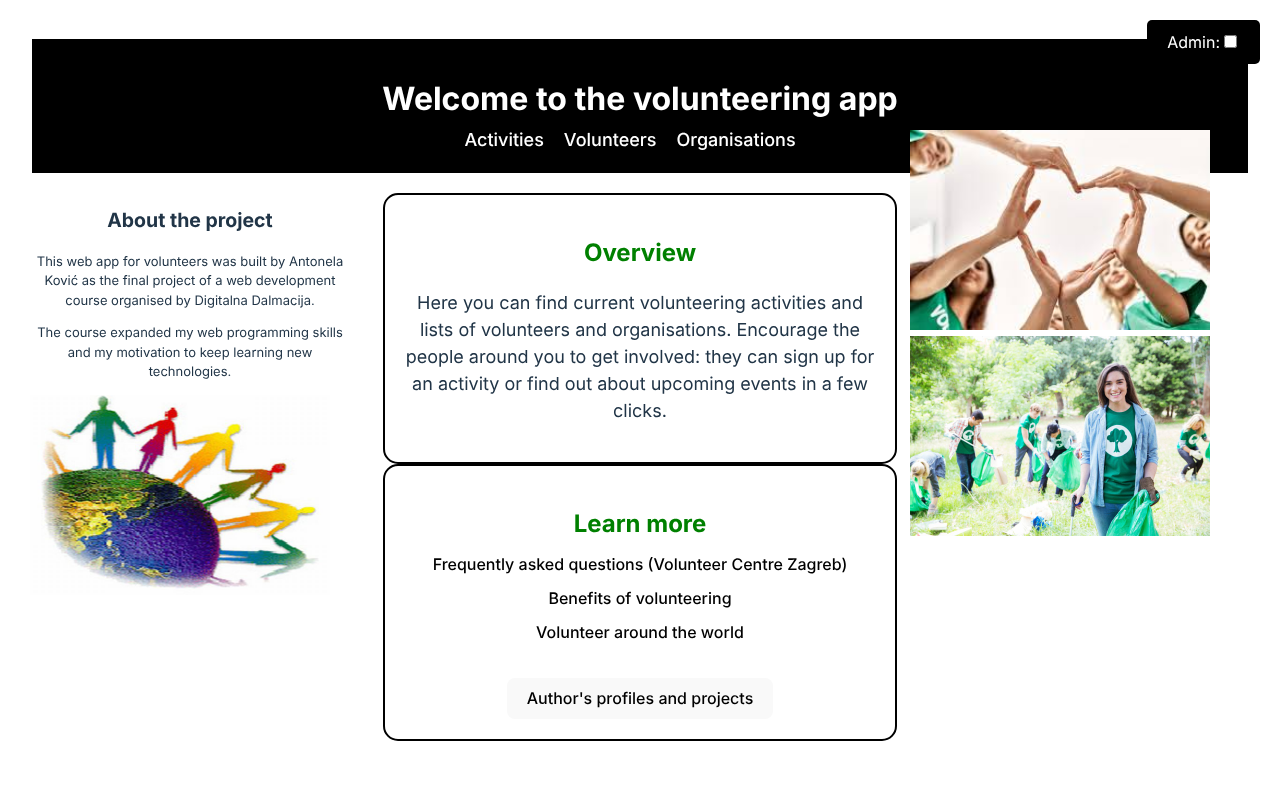
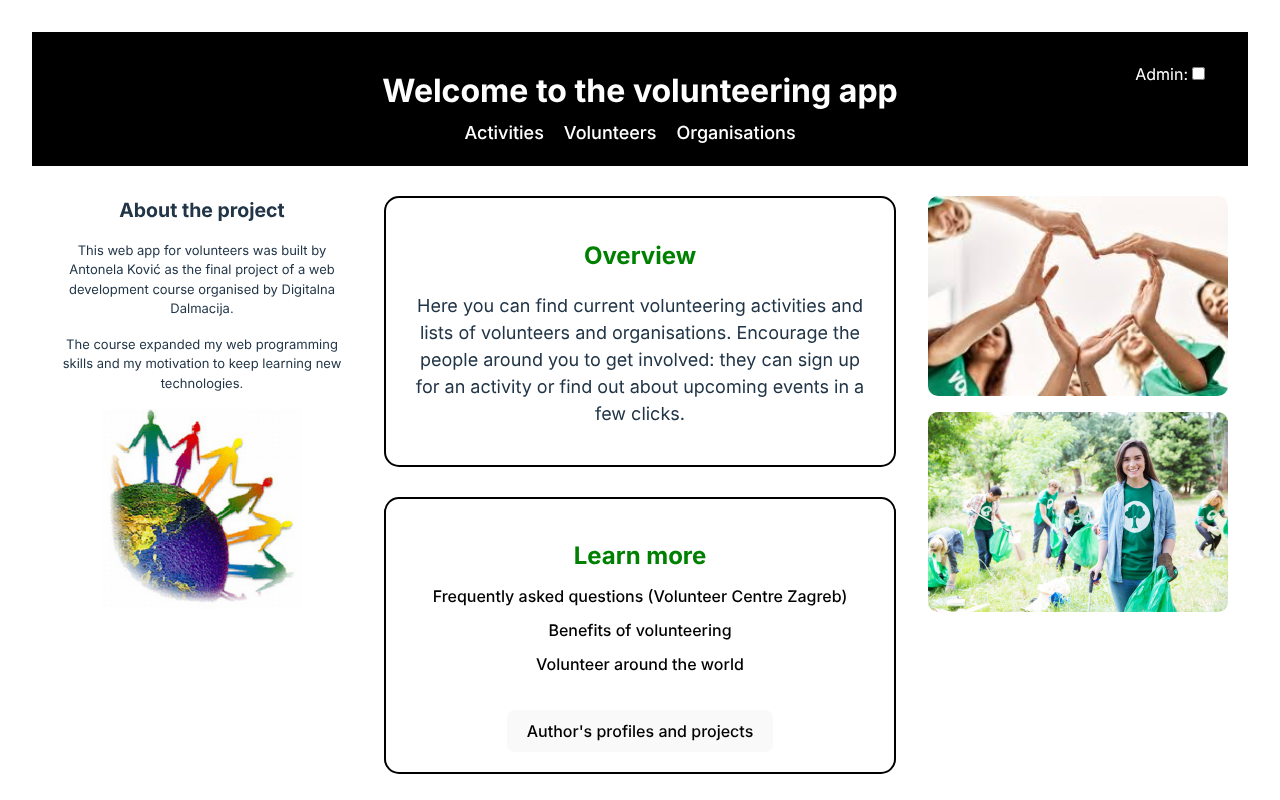
Fix the home page layout: grid columns instead of fixed positioning
The side columns were positioned with position: fixed, so the photos
overlapped the header and the middle content depending on the window
size. The page now uses a three-column grid that stacks on narrow
screens; the admin toggle moves below the navigation there.

diff --git a/src/Home.jsx b/src/Home.jsx
@@ -23,50 +23,52 @@ const Home = () => {
         </nav>
       </header>
 
-      {/* Right column */}
-      <div className="component-container2">
-        <img src="/images/volunteers-1.png" alt="Volunteers at work" width="300" height="200" />
-        <img src="/images/volunteers-2.jpg" alt="Volunteers" width="300" height="200" style={{ display: 'block' }} />
-      </div>
-
-      {/* Left column */}
-      <div className="component-container">
-        <h2>About the project</h2>
-        <p>
-          This web app for volunteers was built by Antonela Ković as the final project of a web
-          development course organised by Digitalna Dalmacija.
-        </p>
-        <p>
-          The course expanded my web programming skills and my motivation to keep learning new technologies.
-        </p>
-        <img src="/images/volunteers-3.jpg" alt="Volunteering" width="300" height="200" style={{ display: 'block' }} />
-      </div>
-
-      {/* Middle section */}
-      <main className="container">
-        <div className="general-section">
-          <h2 style={{ color: 'green' }}>Overview</h2>
+      <div className="home-layout">
+        {/* Left column */}
+        <aside className="home-left">
+          <h2>About the project</h2>
           <p>
-            Here you can find current volunteering activities and lists of volunteers and organisations.
-            Encourage the people around you to get involved: they can sign up for an activity or find out
-            about upcoming events in a few clicks.
+            This web app for volunteers was built by Antonela Ković as the final project of a web
+            development course organised by Digitalna Dalmacija.
           </p>
-        </div>
-        <div className="dropdown">
-          <h2 style={{ color: 'green' }}>Learn more</h2>
-          <ul className="dropdown-content2">
-            <li><a href="https://www.vcz.hr/cesta-pitanja/">Frequently asked questions (Volunteer Centre Zagreb)</a></li>
-            <li><a href="https://www.volonterski-centar-ri.org/mogucnosti-i-prednosti-volontiranja/">Benefits of volunteering</a></li>
-            <li><a href="https://youth.europa.eu/go-abroad/volunteering/volunteer-around-world_en">Volunteer around the world</a></li>
-          </ul>
-          <br />
-          <button className="dropbtn">Author&apos;s profiles and projects</button>
-          <ul className="dropdown-content">
-            <li><a href="https://github.com/antonela-kovic">GitHub</a></li>
-            <li><a href="https://www.linkedin.com/in/antonela-kovi%C4%87-706249308/">LinkedIn</a></li>
-          </ul>
-        </div>
-      </main>
+          <p>
+            The course expanded my web programming skills and my motivation to keep learning new technologies.
+          </p>
+          <img src="/images/volunteers-3.jpg" alt="Volunteering" width="300" height="200" />
+        </aside>
+
+        {/* Middle column */}
+        <main className="container">
+          <div className="general-section">
+            <h2 style={{ color: 'green' }}>Overview</h2>
+            <p>
+              Here you can find current volunteering activities and lists of volunteers and organisations.
+              Encourage the people around you to get involved: they can sign up for an activity or find out
+              about upcoming events in a few clicks.
+            </p>
+          </div>
+          <div className="dropdown">
+            <h2 style={{ color: 'green' }}>Learn more</h2>
+            <ul className="dropdown-content2">
+              <li><a href="https://www.vcz.hr/cesta-pitanja/">Frequently asked questions (Volunteer Centre Zagreb)</a></li>
+              <li><a href="https://www.volonterski-centar-ri.org/mogucnosti-i-prednosti-volontiranja/">Benefits of volunteering</a></li>
+              <li><a href="https://youth.europa.eu/go-abroad/volunteering/volunteer-around-world_en">Volunteer around the world</a></li>
+            </ul>
+            <br />
+            <button className="dropbtn">Author&apos;s profiles and projects</button>
+            <ul className="dropdown-content">
+              <li><a href="https://github.com/antonela-kovic">GitHub</a></li>
+              <li><a href="https://www.linkedin.com/in/antonela-kovi%C4%87-706249308/">LinkedIn</a></li>
+            </ul>
+          </div>
+        </main>
+
+        {/* Right column */}
+        <aside className="home-right">
+          <img src="/images/volunteers-1.png" alt="Volunteers at work" width="300" height="200" />
+          <img src="/images/volunteers-2.jpg" alt="Volunteers" width="300" height="200" />
+        </aside>
+      </div>
     </div>
   );
 };

diff --git a/src/Home.css b/src/Home.css
@@ -1,5 +1,6 @@
 /* Header */
 .home-header {
+    position: relative;
     background-color: black;
     color: #ffffff;
     padding: 20px;
@@ -102,16 +103,13 @@ main ul li a:hover {
     border-radius: 15px;
     padding: 20px;
     margin-bottom: 30px;
-    margin: auto;
-    width: 40%;
 }
 .dropdown {
     border: 2px solid black;
     border-radius: 15px;
     padding: 20px;
     margin-bottom: 30px;
-    margin: auto;
-    width: 40%;
+    position: relative;
 }
 /* Dropdown content (hidden by default) */
 .dropdown-content {
@@ -145,31 +143,73 @@ main ul li a:hover {
 a {
     color:black;
 }
-/* About me */
-.component-container{
-    position: fixed;
-    top: 180px;
-    left: 20px;
-    width: 320px;
-    padding: 10px;
+/* Three-column layout: about the project | overview | photos.
+   The columns stack on narrow screens instead of overlapping. */
+.home-layout {
+    display: grid;
+    grid-template-columns: 300px minmax(0, 1fr) 300px;
+    gap: 32px;
+    align-items: start;
+    max-width: 1400px;
+    margin: 0 auto;
+    padding: 30px 20px;
 }
-/* Right column */
-.component-container2 {
-    position: fixed;
-    top: 20px;
-    right: 20px;
-    padding: 10px;
-    margin-top: 100px;
-    margin-right: 40px;
+.home-layout main {
+    padding: 0;
+}
+.home-left,
+.home-right {
+    display: flex;
+    flex-direction: column;
+    gap: 16px;
+}
+.home-left {
+    font-size: small;
+}
+.home-left h2 {
+    margin: 0;
+}
+.home-left p {
+    margin: 0;
+}
+.home-left img,
+.home-right img {
+    display: block;
+    width: 100%;
+    height: 200px;
+    border-radius: 10px;
+}
+.home-right img {
+    object-fit: cover;
+}
+/* clip-art on a white background: show it whole instead of cropping it */
+.home-left img {
+    max-width: 300px;
+    margin: 0 auto;
+    object-fit: contain;
+}
+@media (max-width: 1100px) {
+    .home-layout {
+        grid-template-columns: 1fr;
+        max-width: 700px;
+    }
+    .home-right {
+        flex-direction: row;
+    }
+    .home-right img {
+        width: calc(50% - 8px);
+    }
+    /* below the navigation instead of over the title */
+    .admin-toggle {
+        position: static;
+        display: inline-block;
+        margin-top: 10px;
+        padding: 6px 12px;
+    }
 }
 h3{
     color:black;
 }
-/* About the author */
-.component-container{
-    font-size: small;
-}
-
 /* Link lists */
 .dropdown-content,
 .dropdown-content2 {
